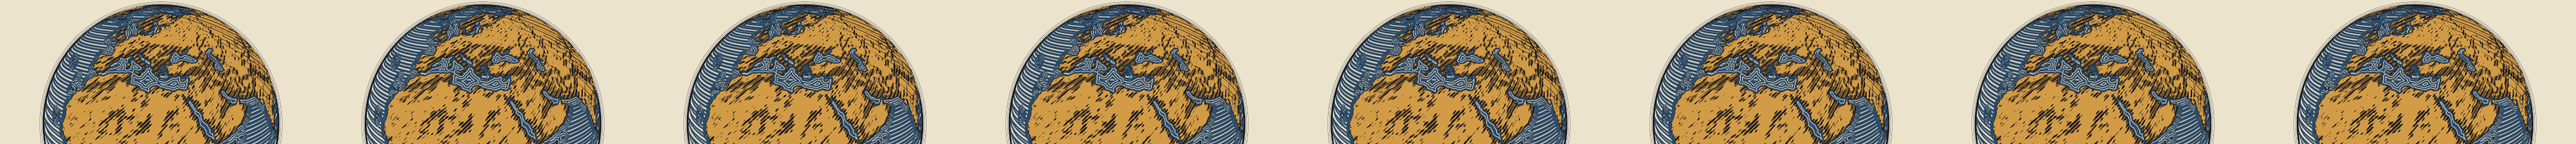
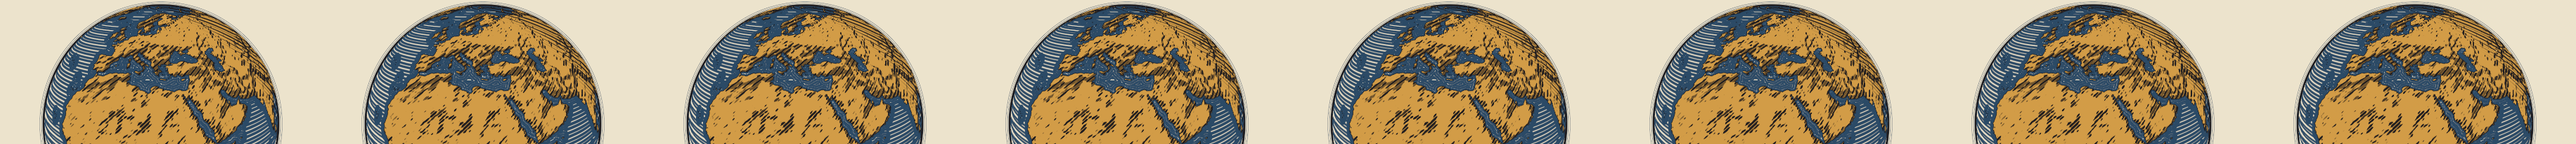
Linoryt: faint tones print lighter, night as tone, quieter print on a small disc (D-314)
Lines thinner than the 1.5 device px floor were widened to it, so faint
tones (the start of night, the soft end of the relief) printed as even full
strokes; they now keep the floor width but lighter (same mean ink). Night is
a tone (0 -> 45 % ink at -12 deg). Relief starts at a shadow of 0.12. On a
small disc (the menu) the relief tops out at 50 %, the sea lines are lighter
and the water lines need 5-9 device px of room.

diff --git a/src/render/globe/linoryt-globe.ts b/src/render/globe/linoryt-globe.ts
@@ -239,6 +239,7 @@ export interface LinorytUniforms {
   awWaterScale: { value: number };
   awCoastWidth: { value: number };
   awSeaMin: { value: number };
+  awDiscFull: { value: number };
   awPaper: { value: Color };
   awInk: { value: Color };
   awBlue: { value: Color };
@@ -287,8 +288,11 @@ float awHatchToneMin(float u0, float g0, float tone, float minPx) {
   float sf = s0 / k;
   float wf = clamp(log2(sf / minPx), 0.0, 1.0);
   float floorHalf = ${f(HATCH_MIN_WIDTH_DEVICE_PX / 2)};
-  float fine = awLines(u0 * k, g0 * k, max(floorHalf, 0.5 * tone * sf));
-  float coarse = awLines(u0 * k * 0.5, g0 * k * 0.5, max(floorHalf, tone * sf));
+  // D-314: a line thinner than the device floor is printed at the floor width but lighter (same mean ink), so faint
+  // tones stay faint instead of turning into even full strokes.
+  float fineHalf = 0.5 * tone * sf, coarseHalf = tone * sf;
+  float fine = awLines(u0 * k, g0 * k, max(floorHalf, fineHalf)) * min(1.0, fineHalf / floorHalf);
+  float coarse = awLines(u0 * k * 0.5, g0 * k * 0.5, max(floorHalf, coarseHalf)) * min(1.0, coarseHalf / floorHalf);
   float lines = mix(coarse, fine, wf);
   return mix(tone, lines, smoothstep(${f(HATCH_ALIAS_FLOOR_DEVICE_PX)}, ${f(HATCH_ALIAS_FLOOR_DEVICE_PX * 2)}, 2.0 * sf));
 }
@@ -305,6 +309,7 @@ uniform sampler2D awField;
 uniform vec3 awSunDirection;
 uniform float awWaterScale;
 uniform float awCoastWidth;
+uniform float awDiscFull; // D-314: 0 on a small disc (≤ 160 px radius, the menu) → 1 on the game globe (≥ 320 px)
 uniform float awSeaMin; // D-309: open-sea spacing, CSS px (6 on the game globe, the relief's grid on a small disc)
 uniform vec3 awPaper;
 uniform vec3 awInk;
@@ -344,7 +349,9 @@ void main() {
     colour = awOchre;
     #ifndef AW_SAVER
     // D-307: relief as tone (the engraved share of each period), up to 80 % ink on the steepest shaded slopes.
-    float relief = smoothstep(0.06, 0.55, field.g) * 0.8;
+    // D-314: from a shadow of 0.12 (flat and gently lit land stays clean), up to 80 % ink on the game globe and 50 % on
+    // a small disc (the menu, where the tone would close into blotches).
+    float relief = smoothstep(0.12, 0.6, field.g) * mix(0.5, 0.8, awDiscFull);
     if (relief > 0.02) {
       float u = (lambda - mercY) * AW_TO_BASE;
       float g = length(dLambda - dMerc) * AW_TO_BASE;
@@ -363,13 +370,14 @@ void main() {
       clamp(hw + 0.5 - abs(dist - ${f(w2)} * scale) / coastGrad, 0.0, 1.0));
     // Water lines closer together than the alias floor are left out (open blue, the coast line carries the shore).
     float spacing = ${f(w1 - w0)} * scale / coastGrad;
-    water *= smoothstep(${f(HATCH_ALIAS_FLOOR_DEVICE_PX)}, ${f(HATCH_ALIAS_FLOOR_DEVICE_PX * 2)}, spacing);
+    // D-314: water lines need room (≥ 5 device px apart, full from 9): on a small disc they would read as thick waves.
+    water *= smoothstep(5.0, 9.0, spacing);
     // Open sea starts past the last water line (and always inside the field, which saturates at ±3°).
     float open = clamp((dist - min(${f(w2 + 3)} * scale, ${f(COAST_FIELD_RANGE_DEG - 0.15)})) / coastGrad + 0.5, 0.0, 1.0);
     float u = phi * AW_TO_BASE;
     float g = length(dPhi) * AW_TO_BASE;
     // D-300: the open-sea parallels print one step sparser (≥ 6 px) so stamps and notes stay on top of the sea.
-    float parallels = awHatchToneMin(u, g, mix(0.13, 0.37, day), awSeaMin * awDpr);
+    float parallels = awHatchToneMin(u, g, mix(0.13, 0.37, day) * mix(0.6, 1.0, awDiscFull), awSeaMin * awDpr);
     colour = mix(colour, awPaper, max(water * (1.0 - open), parallels * open));
   }
   // Printed coast: an ink line centred on the shore, constant on screen.
@@ -381,7 +389,8 @@ void main() {
   if (night > 0.0) {
     float u = (lambda + mercY) * AW_TO_BASE;
     float g = length(dLambda + dMerc) * AW_TO_BASE;
-    float lines = awHatch(u, g, 1.0 + night, smoothstep(0.35, 1.0, night)) * smoothstep(0.0, 0.2, night);
+    // D-314: night as tone too: from nothing at the terminator to 45 % ink at ${NIGHT_FULL_SUN_DEG}°.
+    float lines = awHatchToneMin(u, g, 0.45 * night * night * (3.0 - 2.0 * night), ${f(HATCH_MIN_SPACING_PX)} * awDpr);
     colour = mix(colour, awInk, lines);
     // City lights: paper dots cut out of the night hatch.
     colour = mix(colour, awPaper, smoothstep(0.35, 0.75, field.b) * smoothstep(0.3, 0.6, night));
@@ -429,7 +438,7 @@ export function createLinorytUniforms(field: LinorytField, sunDirection: Vector3
   texture.needsUpdate = true;
   return {
     awField: { value: texture }, awSunDirection: { value: sunDirection }, awDpr: { value: 1 },
-    awWaterScale: { value: waterLineScale(6) }, awCoastWidth: { value: 1.5 }, awSeaMin: { value: HATCH_SEA_MIN_SPACING_PX },
+    awWaterScale: { value: waterLineScale(6) }, awCoastWidth: { value: 1.5 }, awSeaMin: { value: HATCH_SEA_MIN_SPACING_PX }, awDiscFull: { value: 1 },
     awPaper: { value: new Color(LINORYT_INKS.paper) }, awInk: { value: new Color(LINORYT_INKS.ink) },
     awBlue: { value: new Color(LINORYT_INKS.blue) }, awOchre: { value: new Color(LINORYT_INKS.ochre) },
   };
@@ -472,6 +481,7 @@ export function createLinorytSky(uniforms: LinorytUniforms): Mesh {
       const radiusPx = size.y / (2 * Math.tan(perspective.fov * DEG / 2)) / Math.sqrt(distance * distance - 1);
       uniforms.awWaterScale.value = waterLineScale(radiusPx * DEG);
       uniforms.awSeaMin.value = seaMinSpacingCss(radiusPx, dpr);
+      uniforms.awDiscFull.value = Math.max(0, Math.min(1, (radiusPx - 160) / 160));
       // Zoom ≥ 3 ⇔ the disc radius past ~3× the fitted one; the CSS radius at zoom 3 on a phone is ~520 px.
       uniforms.awCoastWidth.value = coastWidthCss(radiusPx * DEG >= 9 ? 3 : 1);
     }

diff --git a/docs/DECISIONS.md b/docs/DECISIONS.md
@@ -3468,3 +3468,16 @@ paper bands; small paper diamonds beside stamps that the frame does not have. Sh
 real renderer, PL 412×915 and 915×412). **Budget:** with D-311 the CSS stood at 130.1 kB of 130 kB; two Linoryt dock
 rules that the general dock-cell rules already outweigh (countdown cell padding/gap and icon size) were removed and the
 licence line's duplicate selector merged: 129.9 kB. **Status: in force.**
+
+## D-314 — Linoryt hatches below the line floor print lighter, night as tone, a quieter print on a small disc (2026-11-08, Claude, ext session)
+Notes for render from the UI audit against the frames (#332, D-312). (1) "Long even slanted strokes over all land":
+the −45° night hatch (and the faint ends of the relief tone) were widened to the 1.5 device px floor, so a faint tone
+printed as full, even strokes the moment it began. (2) On the menu globe the relief closed into black blotches and the
+coastal water lines read as thick waves. **Choice.** (1) A tone line thinner than the floor is drawn at the floor width
+but proportionally lighter (same mean ink): faint stays faint. (2) Night is a tone too: 0 at the terminator → 45 % ink
+at −12° (smoothstep), so dusk darkens gradually; full night still hatches the whole night side (spec §4: night is
+hatch density). (3) Relief from a shadow of 0.12 (was 0.06): flat and gently lit land stays clean ochre. (4) On a small
+disc (radius ≤ 160 px → game globe ≥ 320 px) the relief tone tops out at 50 % (80 % on the game globe), the sea lines'
+tone is 0.6×, and the water lines appear only when ≥ 5 device px apart (full from 9). The paper diamonds at the route
+ends are the DOM route handles (`src/ui/atcStrip.css`, R5c), not render: handed to the UI. On presets that render at
+DPR 1 the menu's sea cannot print finer than 4 device px (the alias floor). **Status: in force.**
